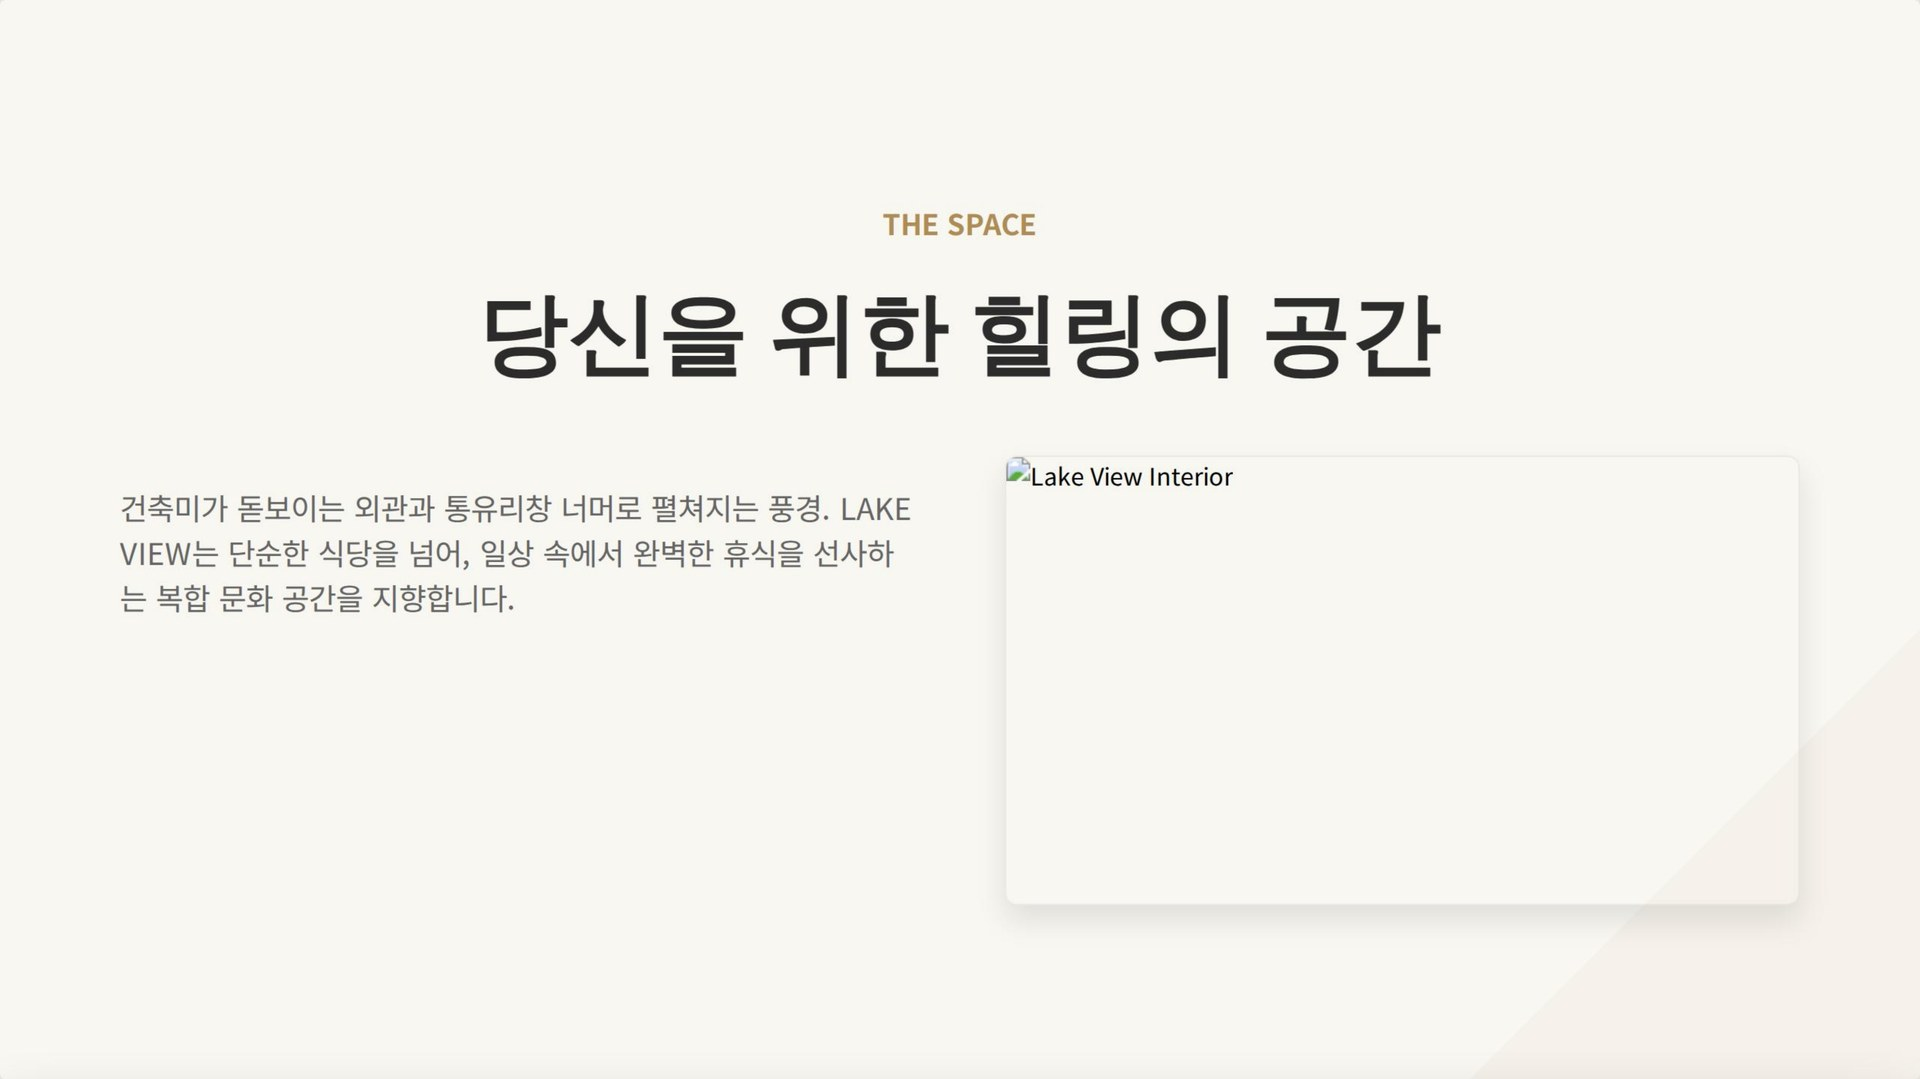
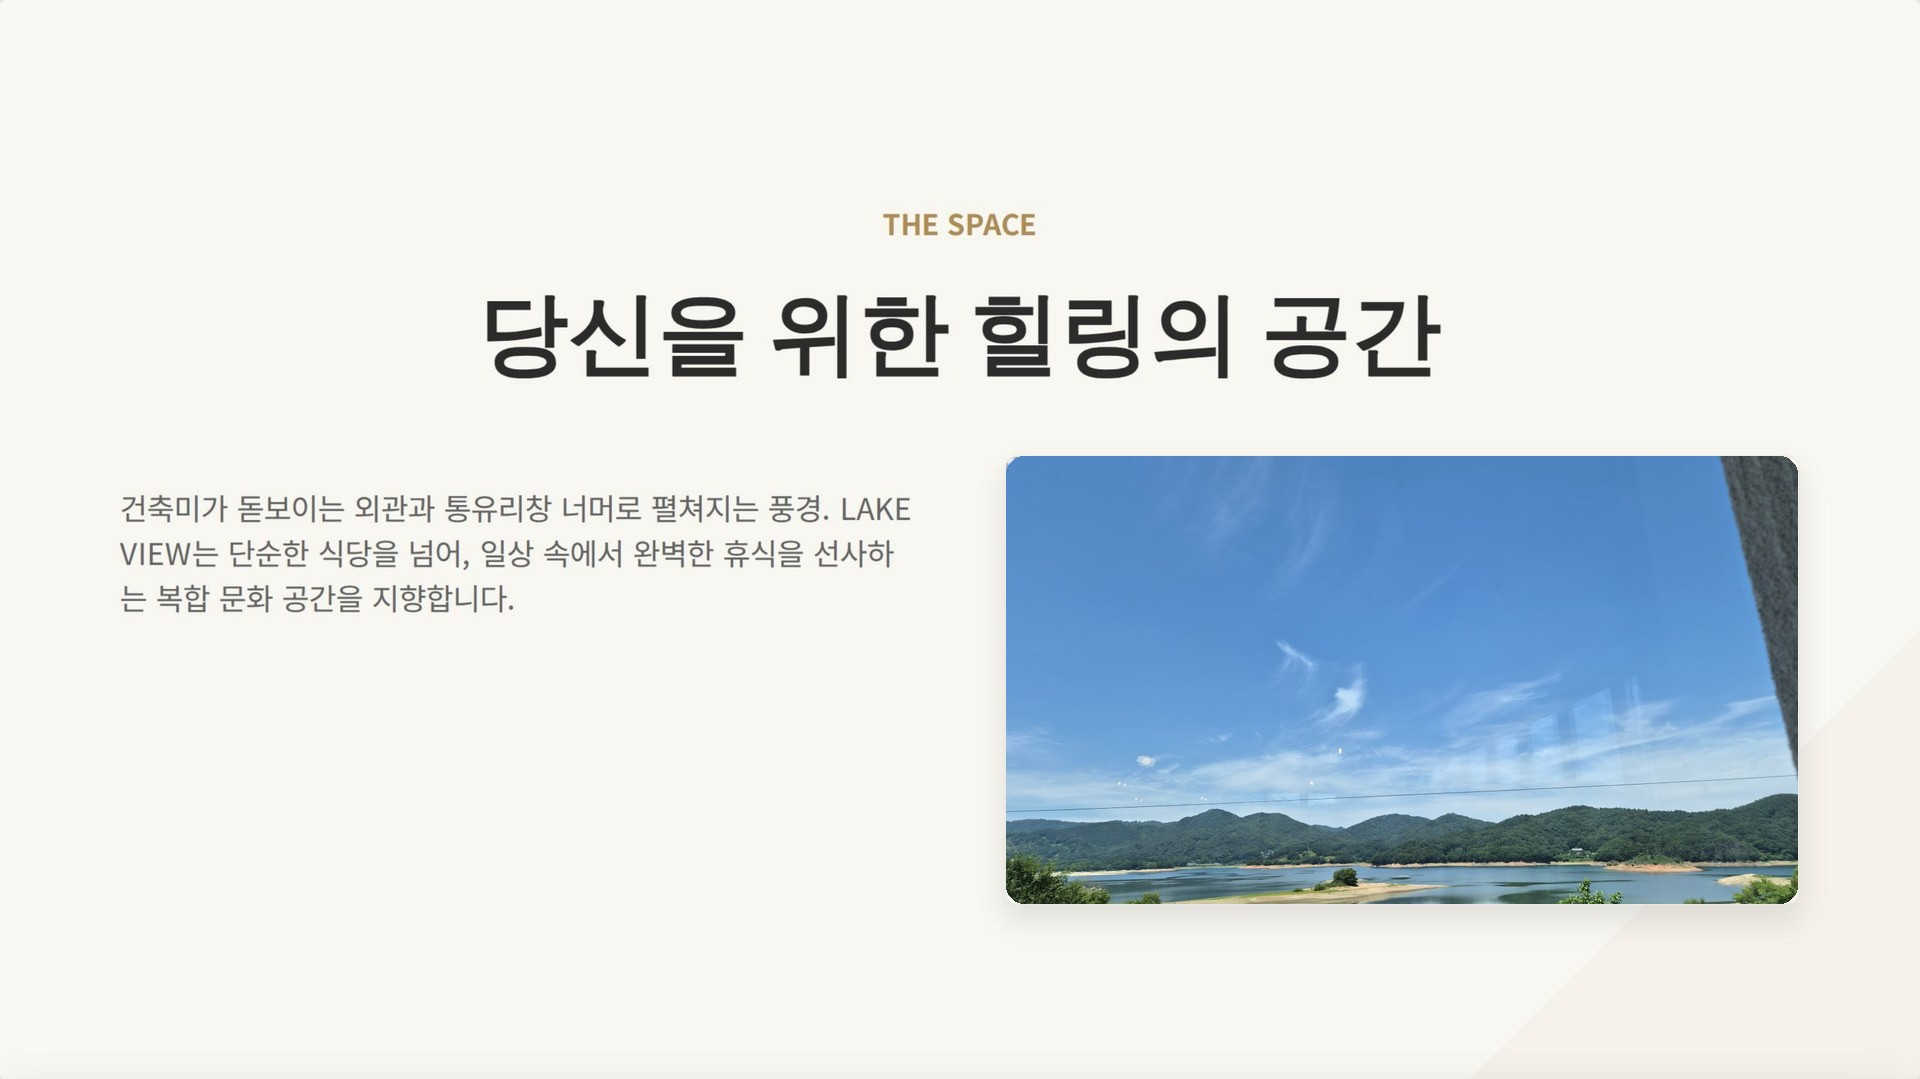
Add files via upload

Changed region(s): [[0.5, 0.3976, 0.9375, 0.8563]]

diff --git a/2.html b/2.html
@@ -104,7 +104,7 @@
   </div>
 </div>
 
-<!-- ═══ 메뉴 가이드 1부 : 표지·세트·샐러드·피자·돈까스·필라프 ═══ -->
+<!-- ═══ 메뉴 가이드 : p1 ~ p12 순서대로 ═══ -->
 <div class="slide board" data-dur="8"><img src="p1.jpg" alt=""></div>
 <div class="slide board" data-dur="10"><img src="p2.jpg" alt=""></div>
 <div class="slide board" data-dur="10"><img src="p3.jpg" alt=""></div>
@@ -112,8 +112,13 @@
 <div class="slide board" data-dur="10"><img src="p5.jpg" alt=""></div>
 <div class="slide board" data-dur="10"><img src="p6.jpg" alt=""></div>
 <div class="slide board" data-dur="10"><img src="p7.jpg" alt=""></div>
+<div class="slide board" data-dur="10"><img src="p8.jpg" alt=""></div>
+<div class="slide board" data-dur="10"><img src="p9.jpg" alt=""></div>
+<div class="slide board" data-dur="10"><img src="p10.jpg" alt=""></div>
+<div class="slide board" data-dur="10"><img src="p11.jpg" alt=""></div>
+<div class="slide board" data-dur="8"><img src="p12.jpg" alt=""></div>
 
-<!-- ═══ 음식 사진 A ═══ -->
+<!-- ═══ 음식 사진 ═══ -->
 <div class="slide photo" data-dur="6"><img src="f1.jpg" alt=""><div class="wm">LAKE VIEW<small>DESSERT &amp; BRUNCH</small></div></div>
 <div class="slide photo" data-dur="6"><img src="f7.jpg" alt=""><div class="wm">LAKE VIEW<small>DESSERT &amp; BRUNCH</small></div></div>
 <div class="slide photo" data-dur="6"><img src="f6.jpg" alt=""><div class="wm">LAKE VIEW<small>DESSERT &amp; BRUNCH</small></div></div>
@@ -122,15 +127,6 @@
 <div class="slide photo" data-dur="6"><img src="f12.jpg" alt=""><div class="wm">LAKE VIEW<small>DESSERT &amp; BRUNCH</small></div></div>
 <div class="slide photo" data-dur="6"><img src="f3.jpg" alt=""><div class="wm">LAKE VIEW<small>DESSERT &amp; BRUNCH</small></div></div>
 <div class="slide photo" data-dur="6"><img src="f14.jpg" alt=""><div class="wm">LAKE VIEW<small>DESSERT &amp; BRUNCH</small></div></div>
-
-<!-- ═══ 메뉴 가이드 2부 : 파스타·안내 ═══ -->
-<div class="slide board" data-dur="10"><img src="p8.jpg" alt=""></div>
-<div class="slide board" data-dur="10"><img src="p9.jpg" alt=""></div>
-<div class="slide board" data-dur="10"><img src="p10.jpg" alt=""></div>
-<div class="slide board" data-dur="8"><img src="p11.jpg" alt=""></div>
-<div class="slide board" data-dur="8"><img src="p12.jpg" alt=""></div>
-
-<!-- ═══ 음식 사진 B ═══ -->
 <div class="slide photo" data-dur="6"><img src="f16.jpg" alt=""><div class="wm">LAKE VIEW<small>DESSERT &amp; BRUNCH</small></div></div>
 <div class="slide photo" data-dur="6"><img src="f10.jpg" alt=""><div class="wm">LAKE VIEW<small>DESSERT &amp; BRUNCH</small></div></div>
 <div class="slide photo" data-dur="6"><img src="f15.jpg" alt=""><div class="wm">LAKE VIEW<small>DESSERT &amp; BRUNCH</small></div></div>